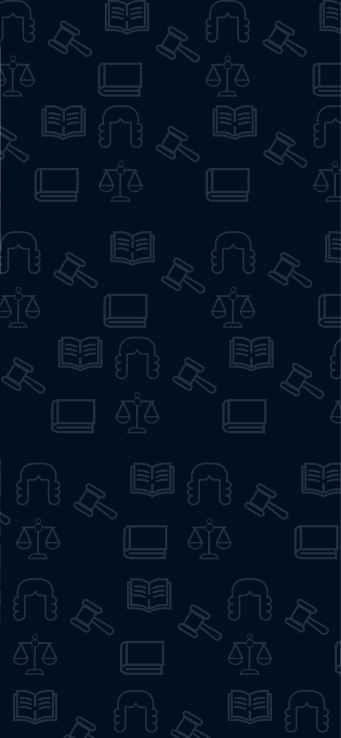
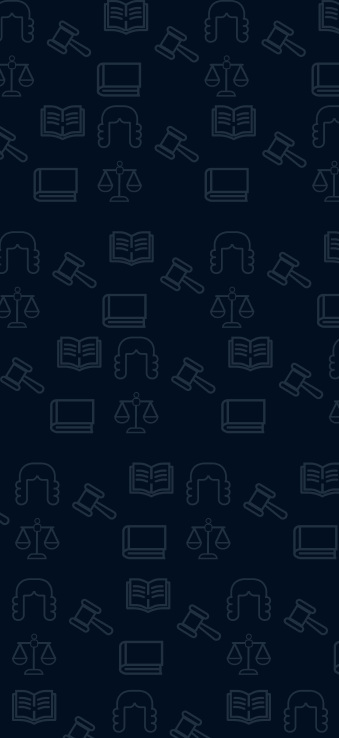
fix: resolve bg pattern tiling lines, rename AI Assistant to Ask AI, and implement 4 Daily Highlights carousel cards

diff --git a/src/pages/DashboardHome.jsx b/src/pages/DashboardHome.jsx
@@ -1,4 +1,4 @@
-import React from 'react';
+import React, { useState, useEffect } from 'react';
 import { useNavigate } from 'react-router-dom';
 import { 
   Scale, 
@@ -7,11 +7,94 @@ import {
   Notebook, 
   BookOpen, 
   Book, 
-  ChevronRight 
+  ChevronRight,
+  Quote,
+  Calendar,
+  X
 } from 'lucide-react';
+
+const dailyCards = [
+  {
+    id: 'case',
+    type: 'Case of the Day',
+    tag: 'DAILY CASE',
+    title: 'Republic v. Mensah',
+    citation: '[2024] SCGLR 104',
+    icon: Scale,
+    bgClass: 'bg-indigo-50/40 hover:bg-indigo-50/80 border-indigo-100/50 text-indigo-700',
+    iconBg: 'bg-indigo-100 text-indigo-600',
+    summary: 'Evaluating the constitutional limits of search and seizure without judicial warrants.',
+    details: {
+      title: 'Republic v. Mensah [2024] SCGLR 104',
+      subtitle: 'Landmark ruling on warrantless searches and personal privacy',
+      content: 'The Supreme Court of Ghana evaluated the constitutional boundaries of search and seizure under Article 18(2) of the 1992 Constitution. The court ruled that searches conducted by law enforcement officers without a judicially authorized warrant are prima facie unlawful, unless they fall strictly within recognized emergency or exigent circumstances.',
+      significance: 'This case solidified the protection of privacy rights in Ghana, establishing clear boundaries for law enforcement and reinforcing that constitutional protections override general police administrative convenience.'
+    }
+  },
+  {
+    id: 'term',
+    type: 'Legal Term of the Day',
+    tag: 'DAILY TERM',
+    title: 'Actus Reus',
+    citation: 'Latin: "Guilty Act"',
+    icon: BookOpen,
+    bgClass: 'bg-emerald-50/40 hover:bg-emerald-50/80 border-emerald-100/50 text-emerald-700',
+    iconBg: 'bg-emerald-100 text-emerald-600',
+    summary: 'The physical act, conduct, or omission that constitutes the binding element of a crime.',
+    details: {
+      title: 'Actus Reus (Latin for "Guilty Act")',
+      subtitle: 'The objective element of criminal liability',
+      content: 'In criminal law, actus reus refers to the physical act, conduct, or omission that constitutes a crime. For a person to be held criminally liable, the prosecution must prove that they committed this physical act, and that it concurred with a guilty state of mind (mens rea).\n\nThere are three main types of actus reus:\n1. Conduct (e.g., physical taking of goods in theft)\n2. Result (e.g., death of a person in homicide)\n3. Omission (e.g., failure of a parent to feed a child when legally obligated).',
+      significance: 'No person can be punished for thoughts alone; there must be a physical manifestation of a crime, protecting individual liberty from arbitrary state action.'
+    }
+  },
+  {
+    id: 'dictum',
+    type: 'Dictum of the Day',
+    tag: 'DAILY DICTUM',
+    title: 'Fiat Justitia Ruat Caelum',
+    citation: 'Lord Mansfield (1770)',
+    icon: Quote,
+    bgClass: 'bg-violet-50/40 hover:bg-violet-50/80 border-violet-100/50 text-violet-700',
+    iconBg: 'bg-violet-100 text-violet-600',
+    summary: '"Let justice be done though the heavens fall" - representing absolute judicial duty.',
+    details: {
+      title: 'Fiat Justitia Ruat Caelum',
+      subtitle: '"Let justice be done though the heavens fall"',
+      content: 'A famous Latin legal maxim expressing the principle that justice must be realized and the law applied regardless of the severity of the consequences.\n\nIt was famously declared by Lord Mansfield in the case of R v. Wilkes (1770) to emphasize that judges must decide cases strictly according to the law and legal principles, without yielding to public outcry or political pressure.',
+      significance: 'This maxim remains the ultimate symbol of judicial independence, neutrality, and moral courage, reminding jurists that the rule of law must stand above all social and political turbulence.'
+    }
+  },
+  {
+    id: 'history',
+    type: 'Today in Legal History',
+    tag: 'LEGAL HISTORY',
+    title: 'Brown v. Board of Education',
+    citation: 'May 17, 1954',
+    icon: Calendar,
+    bgClass: 'bg-amber-50/40 hover:bg-amber-50/80 border-amber-100/50 text-amber-700',
+    iconBg: 'bg-amber-100 text-amber-600',
+    summary: 'US Supreme Court ruled that racial segregation in public schools is unconstitutional.',
+    details: {
+      title: 'Brown v. Board of Education of Topeka, 347 U.S. 483 (1954)',
+      subtitle: 'The end of the "Separate but Equal" doctrine',
+      content: 'The Supreme Court of the United States unanimously ruled that establishing state laws for separate public schools for black and white students is unconstitutional. Chief Justice Earl Warren declared that "separate educational facilities are inherently unequal," violating the Equal Protection Clause of the Fourteenth Amendment.',
+      significance: 'This landmark decision overturned Plessy v. Ferguson (1896), legally dismantled state-sponsored school segregation, and served as a major catalyst for the Civil Rights Movement.'
+    }
+  }
+];
 
 const DashboardHome = () => {
   const navigate = useNavigate();
+  const [selectedCard, setSelectedCard] = useState(null);
+  const [currentSlide, setCurrentSlide] = useState(0);
+
+  useEffect(() => {
+    const timer = setInterval(() => {
+      setCurrentSlide((prev) => (prev + 1) % dailyCards.length);
+    }, 5000);
+    return () => clearInterval(timer);
+  }, []);
 
   const handleActionClick = (action) => {
     if (action === 'Practice Quiz') {
@@ -58,56 +141,87 @@ const DashboardHome = () => {
 
   const recentActivities = [];
 
+  const activeCard = dailyCards[currentSlide];
+  const ActiveIcon = activeCard.icon;
+
   return (
     <div className="space-y-8 animate-fade-in">
-      {/* Case of the Day Banner */}
-      <section className="relative overflow-hidden bg-lexgo-dark text-white rounded-3xl p-8 md:p-10 flex flex-col md:flex-row justify-between items-start md:items-center shadow-lg border border-slate-800">
-        
-        {/* Left Side Info */}
-        <div className="z-10 max-w-xl space-y-4">
-          <div className="flex items-center gap-2.5 text-slate-300 font-semibold text-sm sm:text-base">
-            <Scale size={18} className="text-white" />
-            <span className="tracking-wide">Case of the Day</span>
+      {/* Daily Highlights Section */}
+      <section>
+        <div className="flex justify-between items-center mb-5">
+          <div>
+            <h3 className="text-xl font-bold text-lexgo-dark tracking-tight">Daily Highlights</h3>
+            <p className="text-xs text-gray-500 font-medium mt-0.5">Your curated legal learning content for today</p>
           </div>
-          
-          <h2 className="text-2xl sm:text-3xl font-bold tracking-tight text-white/40">
-            No Case of the Day Selected
-          </h2>
-          
-          <p className="text-slate-500 text-sm sm:text-base leading-relaxed font-light">
-            Please add cases or select a landmark decision from the Cases page to feature it here.
-          </p>
-          
-          <button 
-            type="button" 
-            disabled
-            className="inline-flex items-center justify-center bg-slate-800/40 border border-slate-700/40 text-slate-500 text-sm font-semibold px-6 py-2.5 rounded-xl cursor-not-allowed shadow-sm select-none"
-          >
-            Read Full Case
-          </button>
+          <span className="text-xs font-semibold text-slate-400 bg-slate-100/60 px-3 py-1 rounded-full border border-slate-200/50">
+            {new Date().toLocaleDateString('en-US', { month: 'short', day: 'numeric', year: 'numeric' })}
+          </span>
         </div>
-
-        {/* Right Side Scale Watermark SVG */}
-        <div className="absolute right-0 bottom-0 md:-right-4 md:-bottom-8 w-64 h-64 md:w-80 md:h-80 opacity-[0.06] md:opacity-[0.08] pointer-events-none text-white z-0">
-          <svg
-            viewBox="0 0 100 100"
-            fill="none"
-            stroke="currentColor"
-            strokeWidth="1.5"
-            strokeLinecap="round"
-            strokeLinejoin="round"
-            className="w-full h-full"
+        
+        {/* Carousel Card Slider */}
+        <div className="relative w-full">
+          {/* Card Element */}
+          <div
+            key={currentSlide}
+            onClick={() => setSelectedCard(activeCard)}
+            className="relative overflow-hidden bg-[#0A1128] text-white rounded-[32px] p-8 min-h-[240px] flex flex-col justify-between shadow-lg border border-slate-900 cursor-pointer group transition-all duration-500 hover:shadow-xl hover:scale-[1.005] animate-fade-in"
           >
-            <circle cx="50" cy="9.5" r="4.5" fill="currentColor" />
-            <line x1="50" y1="14" x2="50" y2="22" strokeWidth="3" />
-            <line x1="16" y1="24" x2="84" y2="24" strokeWidth="4" />
-            <path d="M 6,54 L 16,24 L 26,54" strokeWidth="2" />
-            <path d="M 6,54 L 26,54 A 10,9 0 0 1 6,54 Z" fill="currentColor" />
-            <path d="M 74,54 L 84,24 L 94,54" strokeWidth="2" />
-            <path d="M 74,54 L 94,54 A 10,9 0 0 1 74,54 Z" fill="currentColor" />
-            <path d="M 44,24 L 56,24 C 55,26 53,28 53,30 L 53,68 C 53,74 55,78 57,82 L 43,82 C 45,78 47,74 47,68 L 47,30 C 47,28 45,26 44,24 Z" fill="currentColor" />
-            <path d="M 21,88 L 79,88 C 79,85 78,82 75,82 L 25,82 C 22,82 21,85 21,88 Z" fill="currentColor" />
-          </svg>
+            {/* Top Row: Large Icon */}
+            <div className="z-10">
+              <ActiveIcon size={56} className="text-white stroke-[1.5] transition-transform duration-300 group-hover:scale-105" />
+            </div>
+
+            {/* Bottom Row: Text content */}
+            <div className="z-10 space-y-2 mt-8">
+              <div className="flex items-center gap-2">
+                <span className="text-[10px] font-extrabold tracking-widest text-sky-400 uppercase bg-sky-950/40 px-2.5 py-0.5 rounded-full border border-sky-900/30">
+                  {activeCard.type}
+                </span>
+                <span className="text-[10px] font-bold text-slate-400">
+                  {activeCard.citation}
+                </span>
+              </div>
+              <h2 className="text-2xl font-black tracking-tight text-white leading-tight transition-colors duration-200 group-hover:text-sky-300">
+                {activeCard.title}
+              </h2>
+              <p className="text-slate-300 text-xs sm:text-sm leading-relaxed font-medium max-w-2xl line-clamp-2">
+                {activeCard.summary}
+              </p>
+            </div>
+
+            {/* Mpatapo Watermark on the Right */}
+            <div className="absolute right-0 top-0 bottom-0 w-1/2 flex items-center justify-end p-6 opacity-[0.06] group-hover:opacity-[0.09] transition-opacity duration-300 pointer-events-none z-0 text-white">
+              <svg
+                viewBox="0 0 100 100"
+                fill="none"
+                stroke="currentColor"
+                strokeWidth="4.5"
+                strokeLinecap="round"
+                strokeLinejoin="round"
+                className="w-full h-full max-w-[220px] md:max-w-[280px]"
+              >
+                {/* Mpatapo Knot: Horizontal and Vertical interlocking infinity loops */}
+                <path d="M 50,50 C 35,30 20,30 20,50 C 20,70 35,70 50,50 C 65,30 80,30 80,50 C 80,70 65,70 50,50 Z" />
+                <path d="M 50,50 C 30,35 30,20 50,20 C 70,20 70,35 50,50 C 30,65 30,80 50,80 C 70,80 70,65 50,50 Z" />
+              </svg>
+            </div>
+          </div>
+
+          {/* Dots Pagination */}
+          <div className="flex justify-center items-center gap-2 mt-4">
+            {dailyCards.map((_, index) => (
+              <button
+                key={index}
+                onClick={() => setCurrentSlide(index)}
+                className={`transition-all duration-300 cursor-pointer h-2 ${
+                  currentSlide === index 
+                    ? 'w-6 bg-[#0A1128] rounded-full' 
+                    : 'w-2 bg-slate-200 hover:bg-slate-300 rounded-full'
+                }`}
+                aria-label={`Go to slide ${index + 1}`}
+              />
+            ))}
+          </div>
         </div>
       </section>
 
@@ -186,6 +300,72 @@ const DashboardHome = () => {
           )}
         </div>
       </section>
+
+      {/* Daily Highlight Detail Modal */}
+      {selectedCard && (
+        <div className="fixed inset-0 z-50 flex items-center justify-center bg-black/40 backdrop-blur-[1px] p-4 animate-fade-in">
+          {/* Backdrop Click */}
+          <div className="absolute inset-0 cursor-default" onClick={() => setSelectedCard(null)} />
+          
+          {/* Modal Container */}
+          <div className="bg-white rounded-3xl max-w-lg w-full p-6 sm:p-8 relative shadow-2xl border border-slate-100 flex flex-col z-10 animate-scale-up">
+            {/* Close Button */}
+            <button 
+              onClick={() => setSelectedCard(null)}
+              className="absolute top-5 right-5 w-9 h-9 rounded-xl text-gray-500 hover:text-lexgo-dark bg-slate-50 hover:bg-slate-100 transition cursor-pointer flex items-center justify-center border border-slate-100/80"
+            >
+              <X size={18} />
+            </button>
+            
+            {/* Header Badge */}
+            <div className="flex items-center gap-2 mb-4">
+              <span className="text-[10px] font-extrabold tracking-widest text-slate-400 uppercase bg-slate-50 px-2.5 py-1 rounded-full border border-slate-100/50">
+                {selectedCard.type}
+              </span>
+              <span className="text-[10px] font-bold text-gray-400">
+                {selectedCard.citation}
+              </span>
+            </div>
+            
+            {/* Main Title */}
+            <div className="space-y-1 mb-6">
+              <h3 className="text-xl sm:text-2xl font-black text-lexgo-dark tracking-tight leading-tight">
+                {selectedCard.details.title}
+              </h3>
+              <p className="text-xs sm:text-sm text-gray-500 font-semibold leading-normal">
+                {selectedCard.details.subtitle}
+              </p>
+            </div>
+            
+            {/* Content Body */}
+            <div className="space-y-6 flex-grow overflow-y-auto max-h-[300px] pr-2">
+              <div className="space-y-2">
+                <h4 className="text-xs font-bold uppercase tracking-wider text-slate-400">Overview & Context</h4>
+                <p className="text-gray-600 text-xs sm:text-sm leading-relaxed font-medium whitespace-pre-wrap">
+                  {selectedCard.details.content}
+                </p>
+              </div>
+              
+              <div className="p-4 rounded-2xl bg-slate-50 border border-slate-100 space-y-2">
+                <h4 className="text-xs font-bold uppercase tracking-wider text-slate-400">Why It Matters</h4>
+                <p className="text-gray-600 text-xs sm:text-sm leading-relaxed font-medium">
+                  {selectedCard.details.significance}
+                </p>
+              </div>
+            </div>
+            
+            {/* Footer Buttons */}
+            <div className="mt-8 pt-4 border-t border-slate-100 flex justify-end">
+              <button
+                onClick={() => setSelectedCard(null)}
+                className="py-2.5 px-6 rounded-xl bg-lexgo-dark text-white font-bold text-xs hover:bg-opacity-95 transition cursor-pointer text-center"
+              >
+                Got it, thanks!
+              </button>
+            </div>
+          </div>
+        </div>
+      )}
     </div>
   );
 };

diff --git a/src/pages/AiPage.jsx b/src/pages/AiPage.jsx
@@ -165,7 +165,7 @@ const AiPage = () => {
               <Sparkles size={15} className="text-[#F59E0B]" />
             </div>
             <div>
-              <h3 className="text-sm font-bold leading-none">AI Legal Assistant</h3>
+              <h3 className="text-sm font-bold leading-none">Ask AI</h3>
               <span className="text-[10px] text-slate-400 font-semibold">Online</span>
             </div>
           </div>
@@ -200,7 +200,7 @@ const AiPage = () => {
               </div>
               
               <div className="space-y-1">
-                <h2 className="text-2xl font-black text-lexgo-dark tracking-tight">AI Legal Assistant</h2>
+                <h2 className="text-2xl font-black text-lexgo-dark tracking-tight">Ask AI</h2>
                 <p className="text-xs sm:text-sm text-gray-500 font-medium">
                   Get instant help with legal concepts and knowledge
                 </p>

diff --git a/src/pages/CompanionPage.jsx b/src/pages/CompanionPage.jsx
@@ -24,7 +24,7 @@ const CompanionPage = () => {
 
   const tools = [
     {
-      title: 'AI Legal Assistant',
+      title: 'Ask AI',
       description: 'Ask questions, clarify complex legal concepts, and get instant guidance on Ghanaian and common law.',
       icon: Sparkles,
       colorClass: 'text-violet-600 bg-violet-50 border-violet-100',
@@ -112,7 +112,7 @@ const CompanionPage = () => {
           Study Companion Hub
         </h2>
         <p className="text-xs sm:text-sm text-gray-500 font-medium leading-relaxed">
-          Access your digital learning toolbox. Query our intelligent chat assistant, look up legal definitions, research cases, and review your course milestones.
+          Access your digital learning toolbox. Query Ask AI, look up legal definitions, research cases, and review your course milestones.
         </p>
       </div>
 

diff --git a/src/App.jsx b/src/App.jsx
@@ -46,7 +46,7 @@ function App() {
         <Route path="/dashboard/companion" element={<DashboardLayout title="Companion"><CompanionPage /></DashboardLayout>} />
         <Route path="/dashboard/records" element={<DashboardLayout title="Academic Record"><RecordsPage /></DashboardLayout>} />
         <Route path="/dashboard/dictionary" element={<DashboardLayout title="Law Dictionary"><DictionaryPage /></DashboardLayout>} />
-        <Route path="/dashboard/ai" element={<DashboardLayout title="AI Assistant"><AiPage /></DashboardLayout>} />
+        <Route path="/dashboard/ai" element={<DashboardLayout title="Ask AI"><AiPage /></DashboardLayout>} />
         <Route path="/dashboard/notes" element={<DashboardLayout title="Notes"><NotesPage /></DashboardLayout>} />
         <Route path="/dashboard/profile" element={<DashboardLayout title="My Profile"><ProfilePage /></DashboardLayout>} />
       </Routes>

diff --git a/src/components/DashboardLayout.jsx b/src/components/DashboardLayout.jsx
@@ -65,7 +65,7 @@ const DashboardLayout = ({ children, title = 'Home' }) => {
     { name: 'Cases', path: '/dashboard/cases', icon: Scale },
     { name: 'Quiz', path: '/dashboard/quiz', icon: HelpCircle },
     { name: 'Courses', path: '/dashboard/courses', icon: GraduationCap },
-    { name: 'AI Assistant', path: '/dashboard/ai', icon: Sparkles },
+    { name: 'Ask AI', path: '/dashboard/ai', icon: Sparkles },
     { name: 'Companion', path: '/dashboard/companion', icon: MessageSquare },
     { name: 'Academic Record', path: '/dashboard/records', icon: LineChart },
     { name: 'Help Center', path: '/dashboard/help', icon: HelpCircle },

diff --git a/src/index.css b/src/index.css
@@ -25,7 +25,7 @@
 
 .pattern-bg {
   /* Use the exact background image provided by the user */
-  background-image: url("./assets/bg-pattern.png");
+  background-image: url("./assets/bg-pattern.png?v=2");
   background-size: 350px; /* Adjust this value if the icons look too big or small */
   background-position: top left;
   background-repeat: repeat;